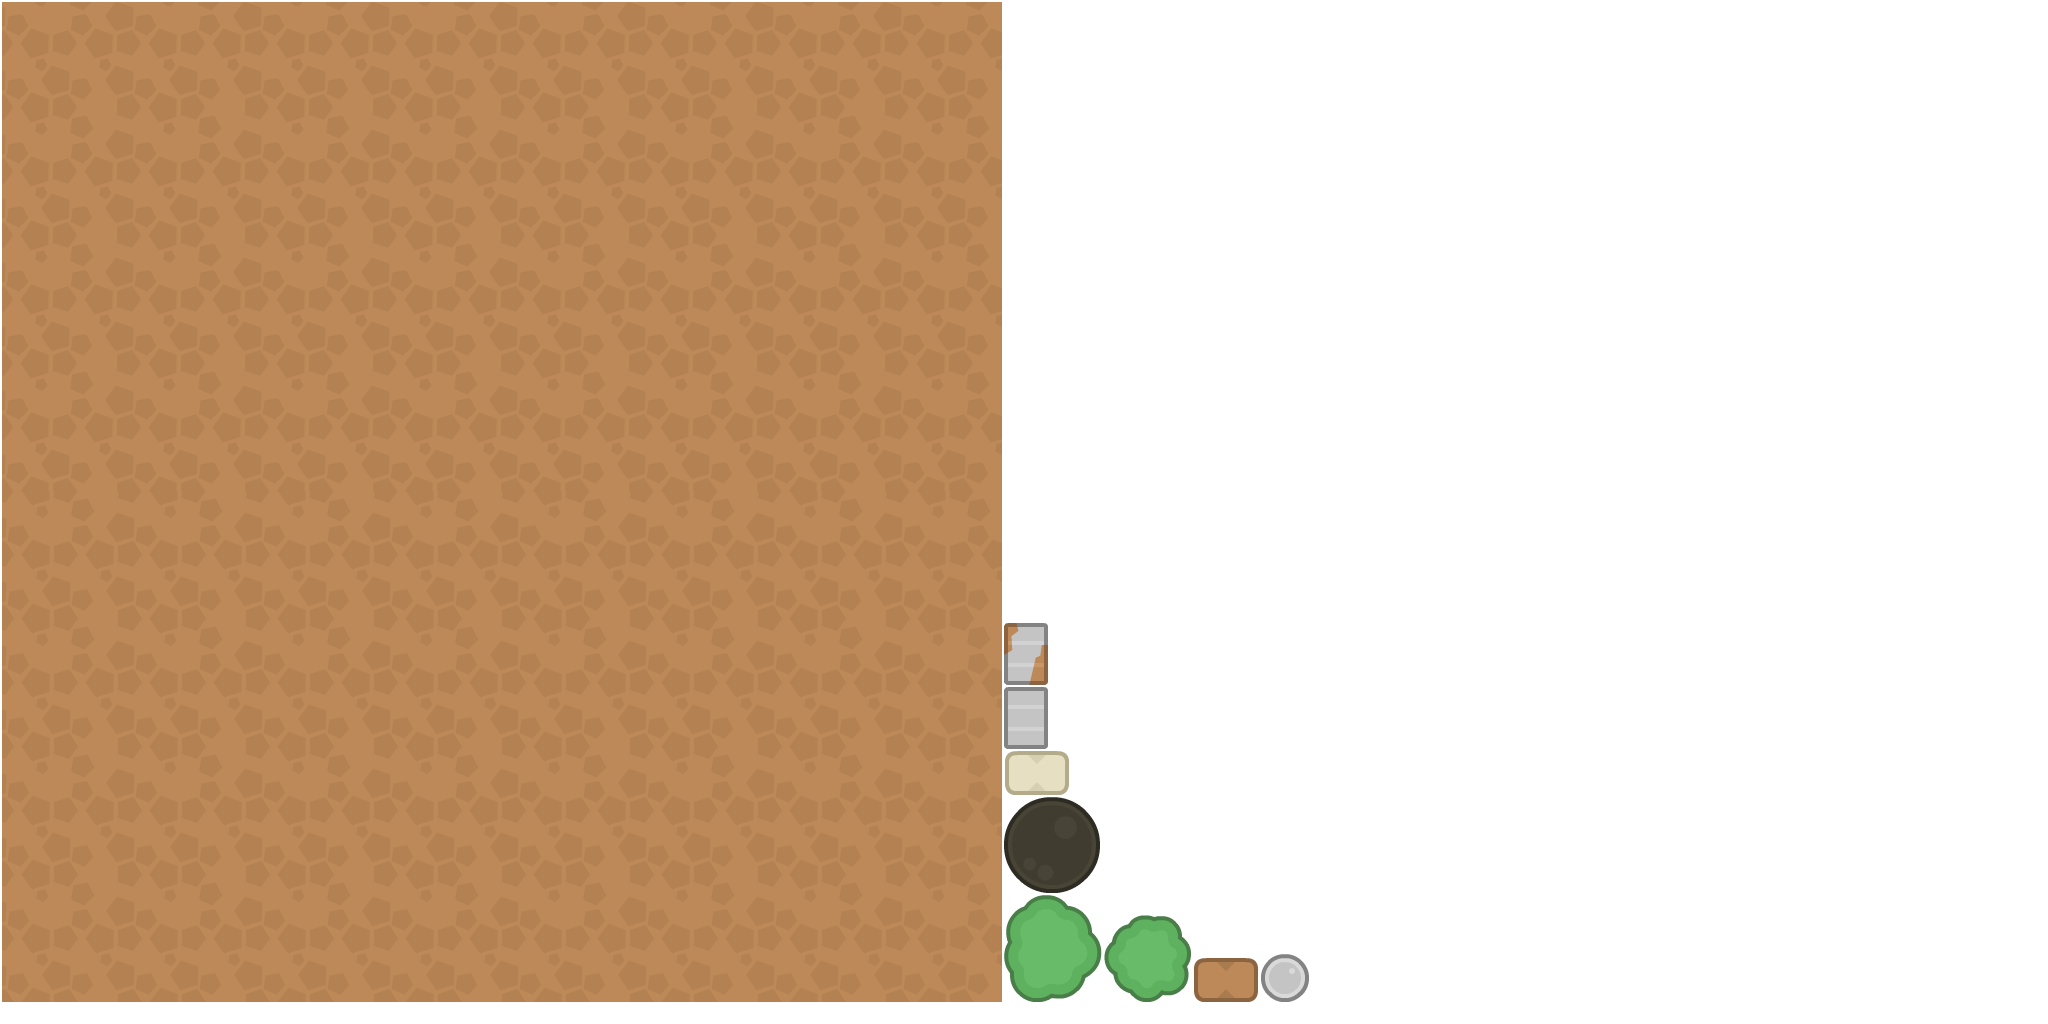
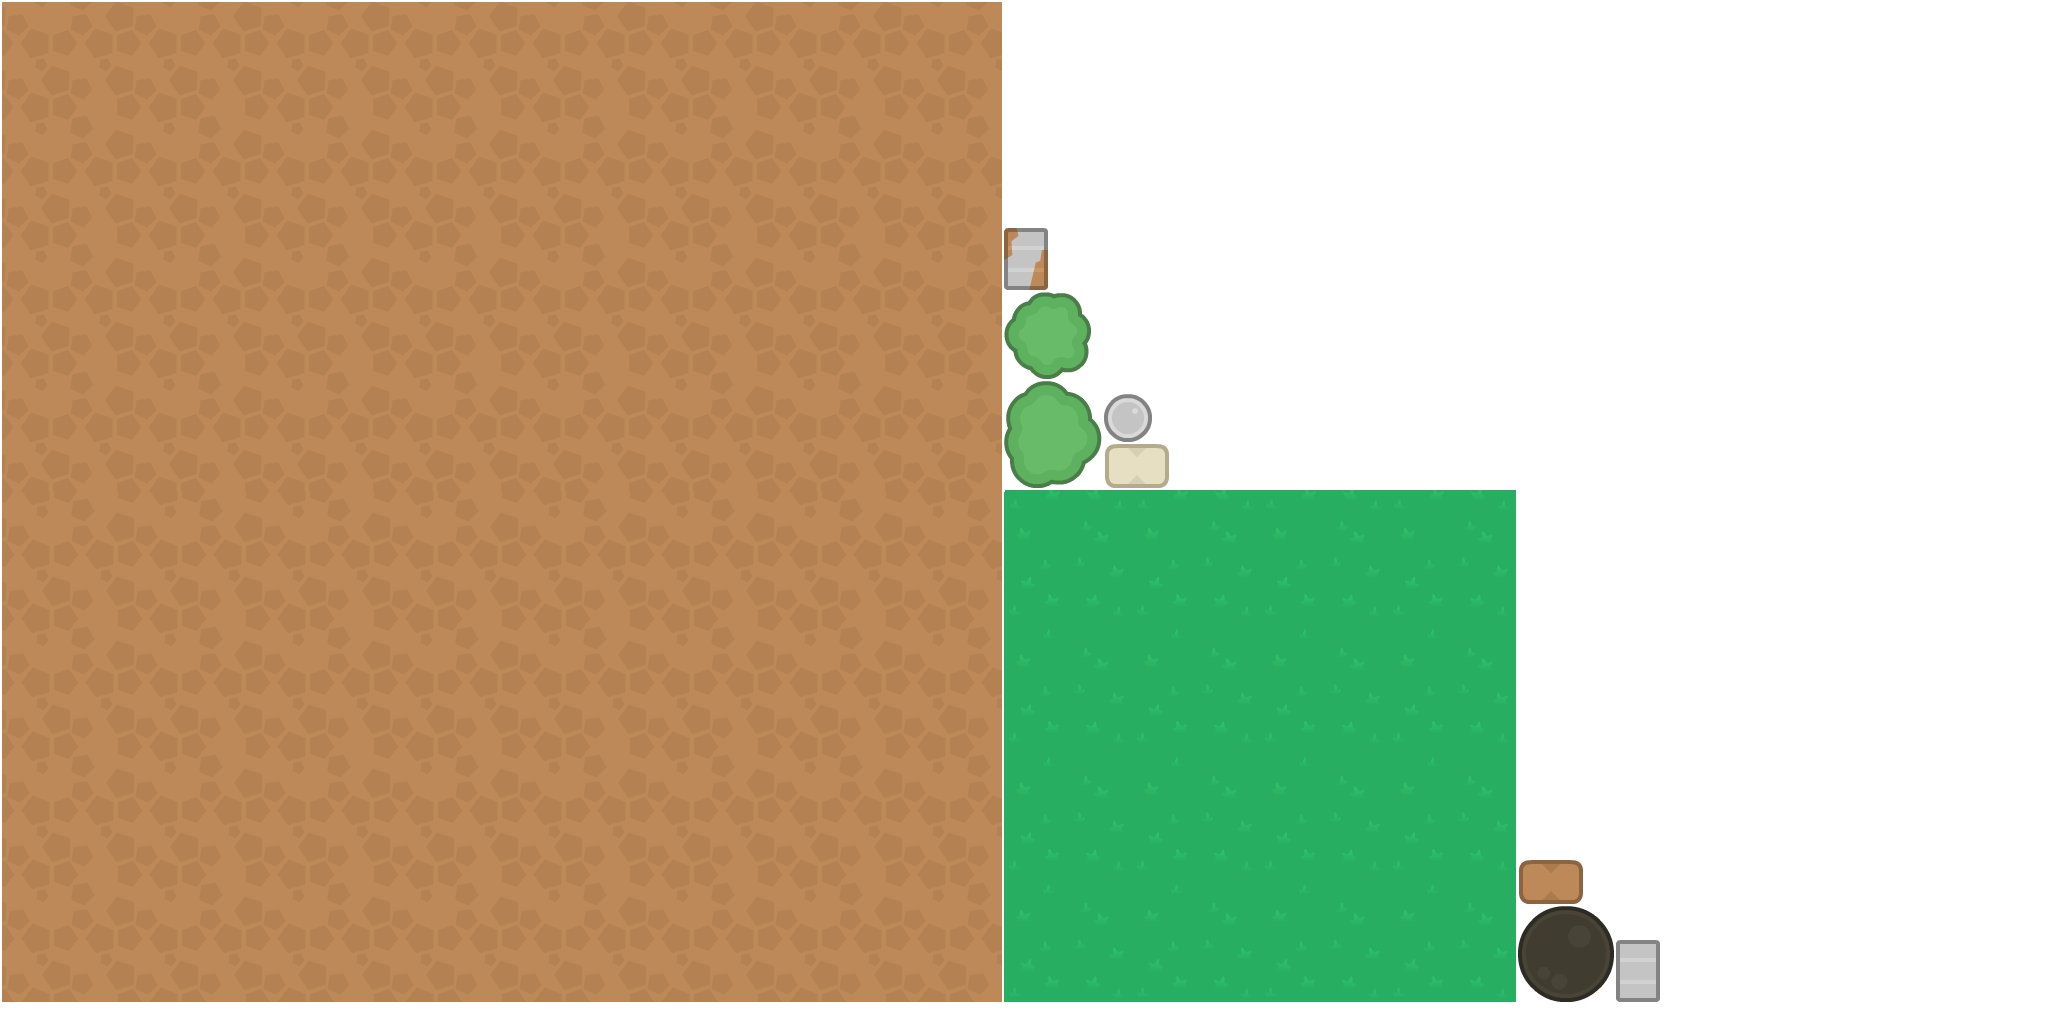
implemented collision with sand bags

Changed region(s): [[0.4688, 0.2188, 0.8125, 1.0]]

diff --git a/core/src/com/kezarszy/tankwar/entities/Tank.java b/core/src/com/kezarszy/tankwar/entities/Tank.java
@@ -6,7 +6,9 @@ import com.badlogic.gdx.graphics.Texture;
 import com.badlogic.gdx.graphics.g2d.SpriteBatch;
 import com.badlogic.gdx.graphics.g2d.TextureRegion;
 import com.badlogic.gdx.graphics.glutils.ShapeRenderer;
+import com.badlogic.gdx.math.Intersector;
 import com.badlogic.gdx.math.Polygon;
+import com.kezarszy.tankwar.levels.Level;
 
 import java.util.ArrayList;
 
@@ -27,6 +29,8 @@ public class Tank {
     private Texture tank;
     private TextureRegion tankRegion;
 
+    private Level level;
+
     private ArrayList<Bullet> bullets;
 
     private long firingTimer;
@@ -37,6 +41,7 @@ public class Tank {
     private Polygon canonPoly;
     private float[] canonVertices;
     private float[] canonTransformedVertices;
+    private Polygon aux;
     private ShapeRenderer shapeRenderer;
 
     public Tank(int x, int y) {
@@ -60,12 +65,15 @@ public class Tank {
 
 
         int auxX = 26, auxY = 23;
-        canonVertices = polyVertices = new float[]{this.x + auxX, this.y + auxY,
+        canonVertices = new float[]{this.x + auxX, this.y + auxY,
                 this.x + auxX, this.y + auxY + CANON_HEIGHT * SIZE - 3,
                 this.x + auxX + CANON_WIDTH * SIZE - 3, this.y + auxY + CANON_HEIGHT * SIZE - 3,
                 this.x + auxX + CANON_WIDTH * SIZE - 3, this.y + auxY};
         canonPoly = new Polygon(canonVertices);
         canonPoly.setOrigin(this.x + auxX, this.y + auxY + (CANON_HEIGHT*SIZE-3)/2);
+
+        aux = new Polygon(polyVertices);
+        aux.setOrigin(this.x + (tank.getWidth()*SIZE-10)/2, this.y + (tank.getHeight()*SIZE)/2);
     }
 
     public float getX() {
@@ -76,21 +84,32 @@ public class Tank {
         return y;
     }
 
+    public void setLevel(Level level) {this.level = level;}
+
     public void update(){
         // PLAYER MOVEMENT LOGIC
         this.dirx = Math.cos(Math.toRadians(angle));
         this.diry = Math.sin(Math.toRadians(angle));
+
         if(Gdx.input.isKeyPressed(Input.Keys.UP)){
-            this.x += this.dirx * SPEED;
-            this.y += this.diry * SPEED;
-            colisionPoly.translate((float) this.dirx * SPEED, (float) this.diry * SPEED);
-            canonPoly.translate((float) this.dirx * SPEED, (float) this.diry * SPEED);
+            aux.setPosition(colisionPoly.getX(), colisionPoly.getY());
+            aux.translate((float) (this.dirx * SPEED), (float) (this.diry * SPEED));
+            if(!collisionDetection(aux)){
+                this.x += this.dirx * SPEED;
+                this.y += this.diry * SPEED;
+                colisionPoly.translate((float) this.dirx * SPEED, (float) this.diry * SPEED);
+                canonPoly.translate((float) this.dirx * SPEED, (float) this.diry * SPEED);
+            }
         }
         if(Gdx.input.isKeyPressed(Input.Keys.DOWN)){
-            this.x -= this.dirx * SPEED;
-            this.y -= this.diry * SPEED;
-            colisionPoly.translate((float) -this.dirx * SPEED, (float) -this.diry * SPEED);
-            canonPoly.translate((float) -this.dirx * SPEED, (float) -this.diry * SPEED);
+            aux.setPosition(colisionPoly.getX(), colisionPoly.getY());
+            aux.translate((float) (- this.dirx * SPEED), (float) (- this.diry * SPEED));
+            if(!collisionDetection(aux)){
+                this.x -= this.dirx * SPEED;
+                this.y -= this.diry * SPEED;
+                colisionPoly.translate((float) -this.dirx * SPEED, (float) -this.diry * SPEED);
+                canonPoly.translate((float) -this.dirx * SPEED, (float) -this.diry * SPEED);
+            }
         }
         if(Gdx.input.isKeyPressed(Input.Keys.LEFT)) {
             angle = (angle + ROTATION_SPEED) % 360;
@@ -99,6 +118,7 @@ public class Tank {
             if(angle >= 0) angle -= ROTATION_SPEED;
             else angle = 360;
         }
+
         if(Gdx.input.isKeyJustPressed(Input.Keys.B))
             debug = !debug;
 
@@ -118,6 +138,7 @@ public class Tank {
 
         colisionPoly.setRotation(angle);
         canonPoly.setRotation(angle);
+        aux.setRotation(angle);
     }
 
     public void draw(SpriteBatch sb){
@@ -134,7 +155,17 @@ public class Tank {
             shapeRenderer.setColor(0, 1, 0, 0);
             shapeRenderer.polygon(colisionPoly.getTransformedVertices());
             shapeRenderer.polygon(canonPoly.getTransformedVertices());
+            shapeRenderer.polygon(aux.getTransformedVertices());
             shapeRenderer.end();
         }
+    }
+
+    public boolean collisionDetection(Polygon poly){
+        ArrayList<Polygon> shapes = level.getColisionPoly();
+        Polygon pol = new Polygon();
+        for(int i=0; i<shapes.size(); i++)
+            if(Intersector.intersectPolygons(poly, shapes.get(i),pol))
+                return true;
+        return false;
     }
 }

diff --git a/core/src/com/kezarszy/tankwar/levels/Level.java b/core/src/com/kezarszy/tankwar/levels/Level.java
@@ -2,26 +2,57 @@ package com.kezarszy.tankwar.levels;
 
 import com.badlogic.gdx.Gdx;
 import com.badlogic.gdx.graphics.g2d.SpriteBatch;
+import com.badlogic.gdx.graphics.glutils.ShapeRenderer;
+import com.badlogic.gdx.math.Polygon;
 import com.badlogic.gdx.utils.viewport.*;
-import com.kezarszy.tankwar.TankWar;
-import com.sun.glass.ui.View;
 import com.uwsoft.editor.renderer.SceneLoader;
+import com.uwsoft.editor.renderer.components.TransformComponent;
 import com.uwsoft.editor.renderer.utils.ItemWrapper;
+
+import java.util.ArrayList;
 
 public class Level {
 
     private SceneLoader sceneLoader;
     private ItemWrapper root;
 
+    private ArrayList<Polygon> colisionPoly;
+    private ShapeRenderer shapeRenderer;
+
     public Level(Viewport viewport){
-        /*Viewport viewport = new FitViewport(TankWar.WIDTH,TankWar.HEIGHT);
-        viewport.apply();*/
         sceneLoader = new SceneLoader();
         sceneLoader.loadScene("MainScene",viewport);
         root = new ItemWrapper(sceneLoader.getRoot());
+
+        colisionPoly = new ArrayList<Polygon>();
+        colisionShapes();
+        shapeRenderer = new ShapeRenderer();
     }
+
+    public ArrayList<Polygon> getColisionPoly() {return this.colisionPoly;}
 
     public void render(SpriteBatch sb){
         sceneLoader.getEngine().update(Gdx.graphics.getDeltaTime());
+
+        shapeRenderer.begin(ShapeRenderer.ShapeType.Line);
+        shapeRenderer.setColor(0, 1, 0, 0);
+        for(int i=0; i<10; i++)
+            shapeRenderer.polygon(colisionPoly.get(i).getTransformedVertices());
+        shapeRenderer.end();
+    }
+
+    public void colisionShapes(){
+        for(int i=1; i<11; i++){
+            int width = 66, height = 44;
+            TransformComponent aux = root.getChild("sandBag"+i).getEntity().getComponent(TransformComponent.class);
+            float[] polyVertices = new float[]{aux.x, aux.y,
+                aux.x, aux.y + height,
+                aux.x + width, aux.y + height,
+                aux.x + width, aux.y};
+            Polygon poly = new Polygon(polyVertices);
+            poly.setOrigin(aux.x + width/2, aux.y + height/2);
+            poly.setRotation(aux.rotation);
+            colisionPoly.add(poly);
+        }
     }
 }

diff --git a/core/src/com/kezarszy/tankwar/states/PlayState.java b/core/src/com/kezarszy/tankwar/states/PlayState.java
@@ -13,6 +13,7 @@ public class PlayState extends State {
         super(gsm);
         tank = new Tank(100,100);
         level = new Level(this.viewport);
+        tank.setLevel(level);
     }
 
     public void update(){
